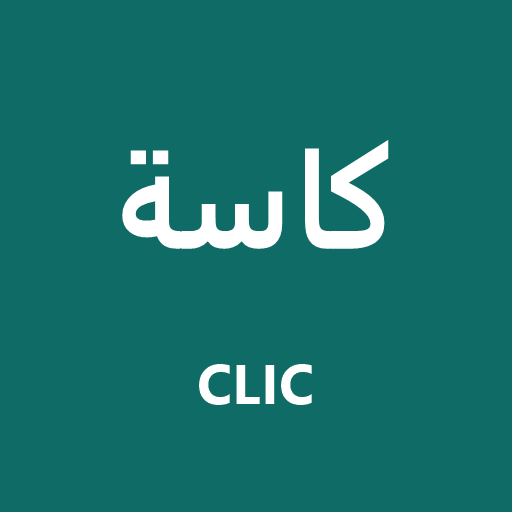
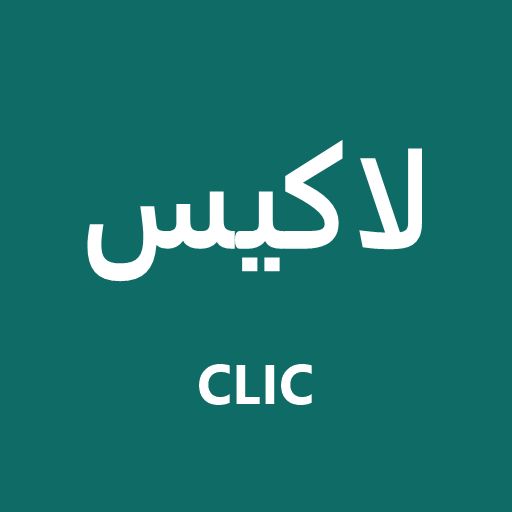
Application intervenant : « لاكيس » au lieu de « الكاسة » (titre, icône, lien, indice de transcription)

Changed region(s): [[0.1562, 0.2812, 0.8438, 0.5625]]

diff --git a/app.html b/app.html
@@ -5,7 +5,7 @@
 <meta name="viewport" content="width=device-width, initial-scale=1, viewport-fit=cover">
 <meta name="theme-color" content="#0F6B66">
 <meta name="robots" content="noindex">
-<title>الكاسة · Clic Event</title>
+<title>لاكيس · Clic Event</title>
 <link rel="manifest" href="app.webmanifest">
 <link rel="icon" href="app-icone-192.png">
 <link rel="apple-touch-icon" href="app-icone-192.png">
@@ -193,7 +193,7 @@ textarea{width:100%;min-height:150px;font:inherit;font-size:22px;border:2px soli
 <main class="ecran erreur" id="sansLien" hidden>
   <div class="e">🔒</div>
   <div class="titre">الرابط ماخدامش</div>
-  <p>طلب رابط جديد من المسؤول ديال الكاسة، وحلّو مرة وحدة.</p>
+  <p>طلب رابط جديد من المسؤول ديال لاكيس، وحلّو مرة وحدة.</p>
 </main>
 
 <div class="message" id="message" role="status" hidden></div>

diff --git a/caisse.html b/caisse.html
@@ -464,7 +464,7 @@ function ouvrirLien(ouvId, jeton){
   const d = $('#dlgLien'), c = $('#dlgLienC');
   const url = jeton ? new URL('app.html', location.href).href + '#t=' + jeton : '';
   const tel = String(o.telephone || '').replace(/\D/g, '');
-  const texte = `السلام ${o.nom}، هادا الرابط ديال الكاسة. حلّو ودير «Ajouter à l'écran d'accueil» :\n${url}`;
+  const texte = `السلام ${o.nom}، هادا الرابط ديال لاكيس. حلّو ودير «Ajouter à l'écran d'accueil» :\n${url}`;
   c.innerHTML = `<h3>📱 Application de ${esc(o.nom)}</h3>
     ${jeton ? `<p class="muted small">Fais scanner ce code avec son téléphone, ou envoie-lui le lien. <b>Ce lien ne sera plus affiché</b> : garde-le si besoin.</p>
       <div id="qrBox" style="display:flex;justify-content:center;padding:8px">…</div>

diff --git a/supabase/functions/caisse-app/index.ts b/supabase/functions/caisse-app/index.ts
@@ -275,7 +275,7 @@ async function transcrire(media: { mime: string; bytes: Uint8Array }, projets: P
   if (!GROQ_KEY) return null;
   const categories = await chargerCategories();
   const mots = [...categories.flatMap((c) => c.mots_cles ?? []), ...projets.map((p) => nomProjet(p)), "درهم"].filter(Boolean);
-  const indice = ("مصاريف الكاسة: " + mots.join("، ")).slice(0, 400);
+  const indice = ("مصاريف لاكيس: " + mots.join("، ")).slice(0, 400);
   const ext = media.mime.includes("webm") ? "webm" : media.mime.includes("mp4") ? "m4a" : media.mime.includes("ogg") ? "ogg" : "webm";
   const form = new FormData();
   form.append("file", new Blob([media.bytes], { type: media.mime }), `vocal.${ext}`);

diff --git a/app-sw.js b/app-sw.js
@@ -1,7 +1,7 @@
 // Service de l'application intervenant (app.html) : la rend installable et l'ouvre
 // même avec un réseau faible. Il ne s'occupe que des fichiers de l'application ;
 // les autres pages du site (projets, caisse) et les appels au serveur passent sans lui.
-const CACHE = 'caisse-app-v1';
+const CACHE = 'caisse-app-v2';
 const FICHIERS = ['app.html', 'app.webmanifest', 'app-icone-192.png', 'app-icone-512.png', 'config.js'];
 
 self.addEventListener('install', (e) => {
